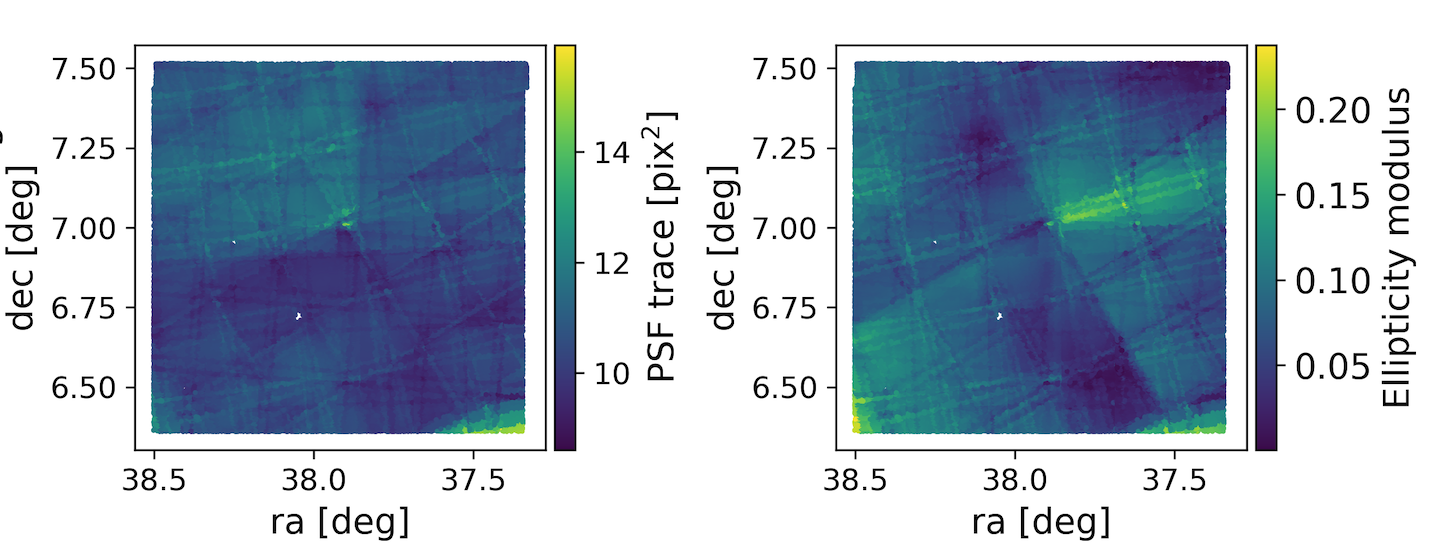
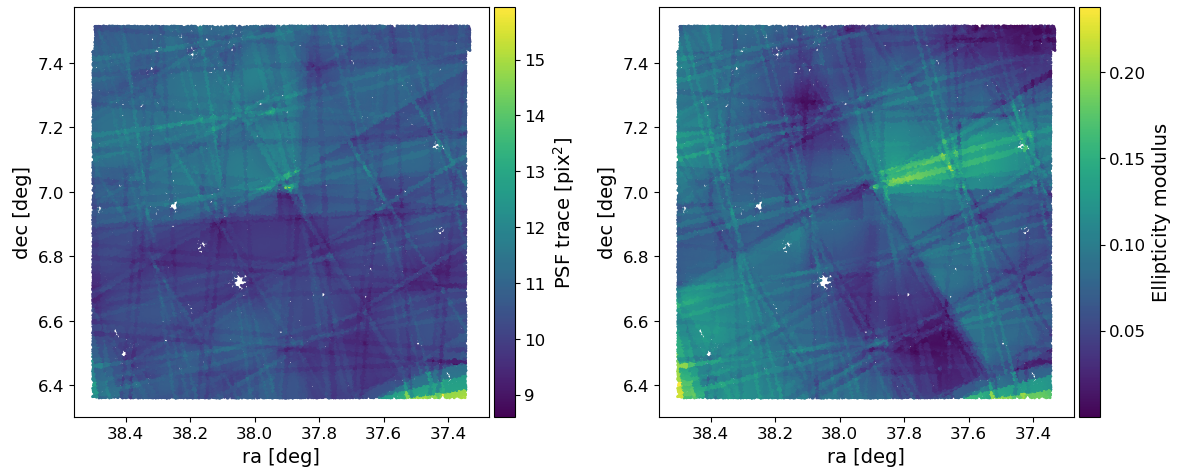
Update images

diff --git a/SITCOMTN-161.tex b/SITCOMTN-161.tex
@@ -85,7 +85,7 @@ All the tests performed hereafter rely on the coadded data from the tracts and p
 \begin{figure}
 \centering'
 \includegraphics[width=0.5\textwidth]{Figures/nimages.png}
-\caption{\emph{Left}: number of images used in the coadded data in the field of A360. \emph{Right}: modulus of the PSF ellipticity in the field. The dithering pattern appears clearly. {\color{red}[Redo figure better resolution/fontsize]}\label{fig:dither}}
+\caption{\emph{Left}: number of images used in the coadded data in the field of A360. \emph{Right}: modulus of the PSF ellipticity in the field. The dithering pattern appears clearly. {\color{red}[Redo figure better resolution]}\label{fig:dither}}
 \end{figure}
 
 
@@ -107,13 +107,13 @@ The figures in this note have been produced using the following:
 
 An accurate PSF model is essential for weak lensing studies. PSF model size errors result in an inaccurate correction for the dilution of the galaxy shear by the PSF convolution, which causes a coherent multiplicative bias in weak lensing shear; PSF model shape errors result in an inaccurate correction for the PSF shape, causing a coherent additive bias in weak lensing shear. Evaluating the performance of the PSF model on both aspects required comparing of the PSF model to the measurements of the PSF and reserved sets of stars.
 
-The second moments $I_{xx,xy,yy}$ measured on the objects and of the PSF model lie at the core of shape measurements, as they are the fundamental quantities from which ellipticities, sizes, and PSF corrections are derived in weak lensing analyses. We refer the reader to \citet{} (CITE) for a pedagogical overview and provide here the main quantities needed in this note.   
+The second moments $I_{xx,xy,yy}$ measured on the objects and of the PSF model lie at the core of shape measurements used in weak lensing analyses. We refer the reader to \citet{2014ApJS..212....5M} for a pedagogical overview and provide here the main quantities needed in this note.   
 
 From the second moment matrix expressed in the (x,y) frame of the tracts, we define the trace 
 \begin{equation}
 T = I_{xx} + I_{yy}\;,
 \end{equation}
-that provides an estimate of the size.
+that provides an estimate of the size of the object.
 
 In addition, the shape of an object can be described by its complex ellipticity, $e=e_1+i e_2$, the components of which relates to the the second moments as
 \begin{eqnarray}
@@ -127,7 +127,7 @@ From these, we compute the residuals between the measurements for the set of PSF
 \delta T &=& T^{\rm meas} - T^{\rm model} 
 \end{eqnarray}
 
-The ellipticity can also be written as $e = |e| \exp(2i\theta)$, where$|e|$ is the modulus of the ellipticity and $\theta$ the orientation of the major axis of the ellipse with respect to the x axis. They are expressed from $e_1$ and $e_2$ as follows
+The ellipticity can equivalently be written as $e = |e| \exp(2i\theta)$, where$|e|$ is the modulus of the ellipticity and $\theta$ the orientation of the major axis of the ellipse with respect to the x axis. They are expressed from $e_1$ and $e_2$ as follows
 \begin{equation} 
 |e| = \sqrt{e_1^2 + e_2^2}
 \label{eq:modulus}
@@ -142,13 +142,13 @@ Before looking into the residuals in the next section, Figure~\ref{fig:T_and_e} 
 
 \begin{figure}
 \centering
-\includegraphics[width=0.85\textwidth]{Figures/T_and_e.png}
-\caption{\emph{Left}: PSF size (trace) across the field. \emph{Right}: modulus of the PSF ellipticity in the field. {\color{red}[Redo figure better resolution/fontsize]}\label{fig:T_and_e}}
+\includegraphics[width=\textwidth]{Figures/T_and_e.png}
+\caption{\emph{Left}: PSF size (trace) across the field. \emph{Right}: modulus of the PSF ellipticity in the field. {\color{red}[Redo figure better resolution]}\label{fig:T_and_e}}
 \end{figure}  
 
 
 \subsection{PSF residuals - distributions and whisker plots}
-To assess the performance of the PSF model, a first test consists in comparing the normalized distribution of the residuals defined above, for the PSF and reserved stars, to check for a possible overfitting of the PSF model \citep{2025OJAp....8E..26S}. As can be seen in Figure~\ref{fig:residual_distrib} (left and middle panels), the ellipticity residuals peak around zero and extend to $\sim 0.02$. The right panel shows the relative residuals of the trace, peaking around zero and not exceeding $\sim 5 \%$. The residuals obtained from the PSF stars and reserved stars behave similarly, so there is no indication of any overfitting of the PSF model.
+To assess the performance of the PSF model, a first test consists in comparing the normalized distribution of the residuals defined above, for the PSF and reserved stars, to check for a possible overfitting of the PSF model (e.g., \citealp{2025OJAp....8E..26S}). As can be seen in Figure~\ref{fig:residual_distrib} (left and middle panels), the ellipticity residuals peak around zero and extend to $\sim 0.02$. The right panel shows the relative residuals of the trace, peaking around zero and not exceeding $\sim 5 \%$. The residuals obtained from the PSF stars and reserved stars behave similarly, so there is no indication of any overfitting of the PSF model.
 {\color{red} Expand to explain on the size residuals and explain why we don't expect them to be an issue.}
 
 \begin{figure}
